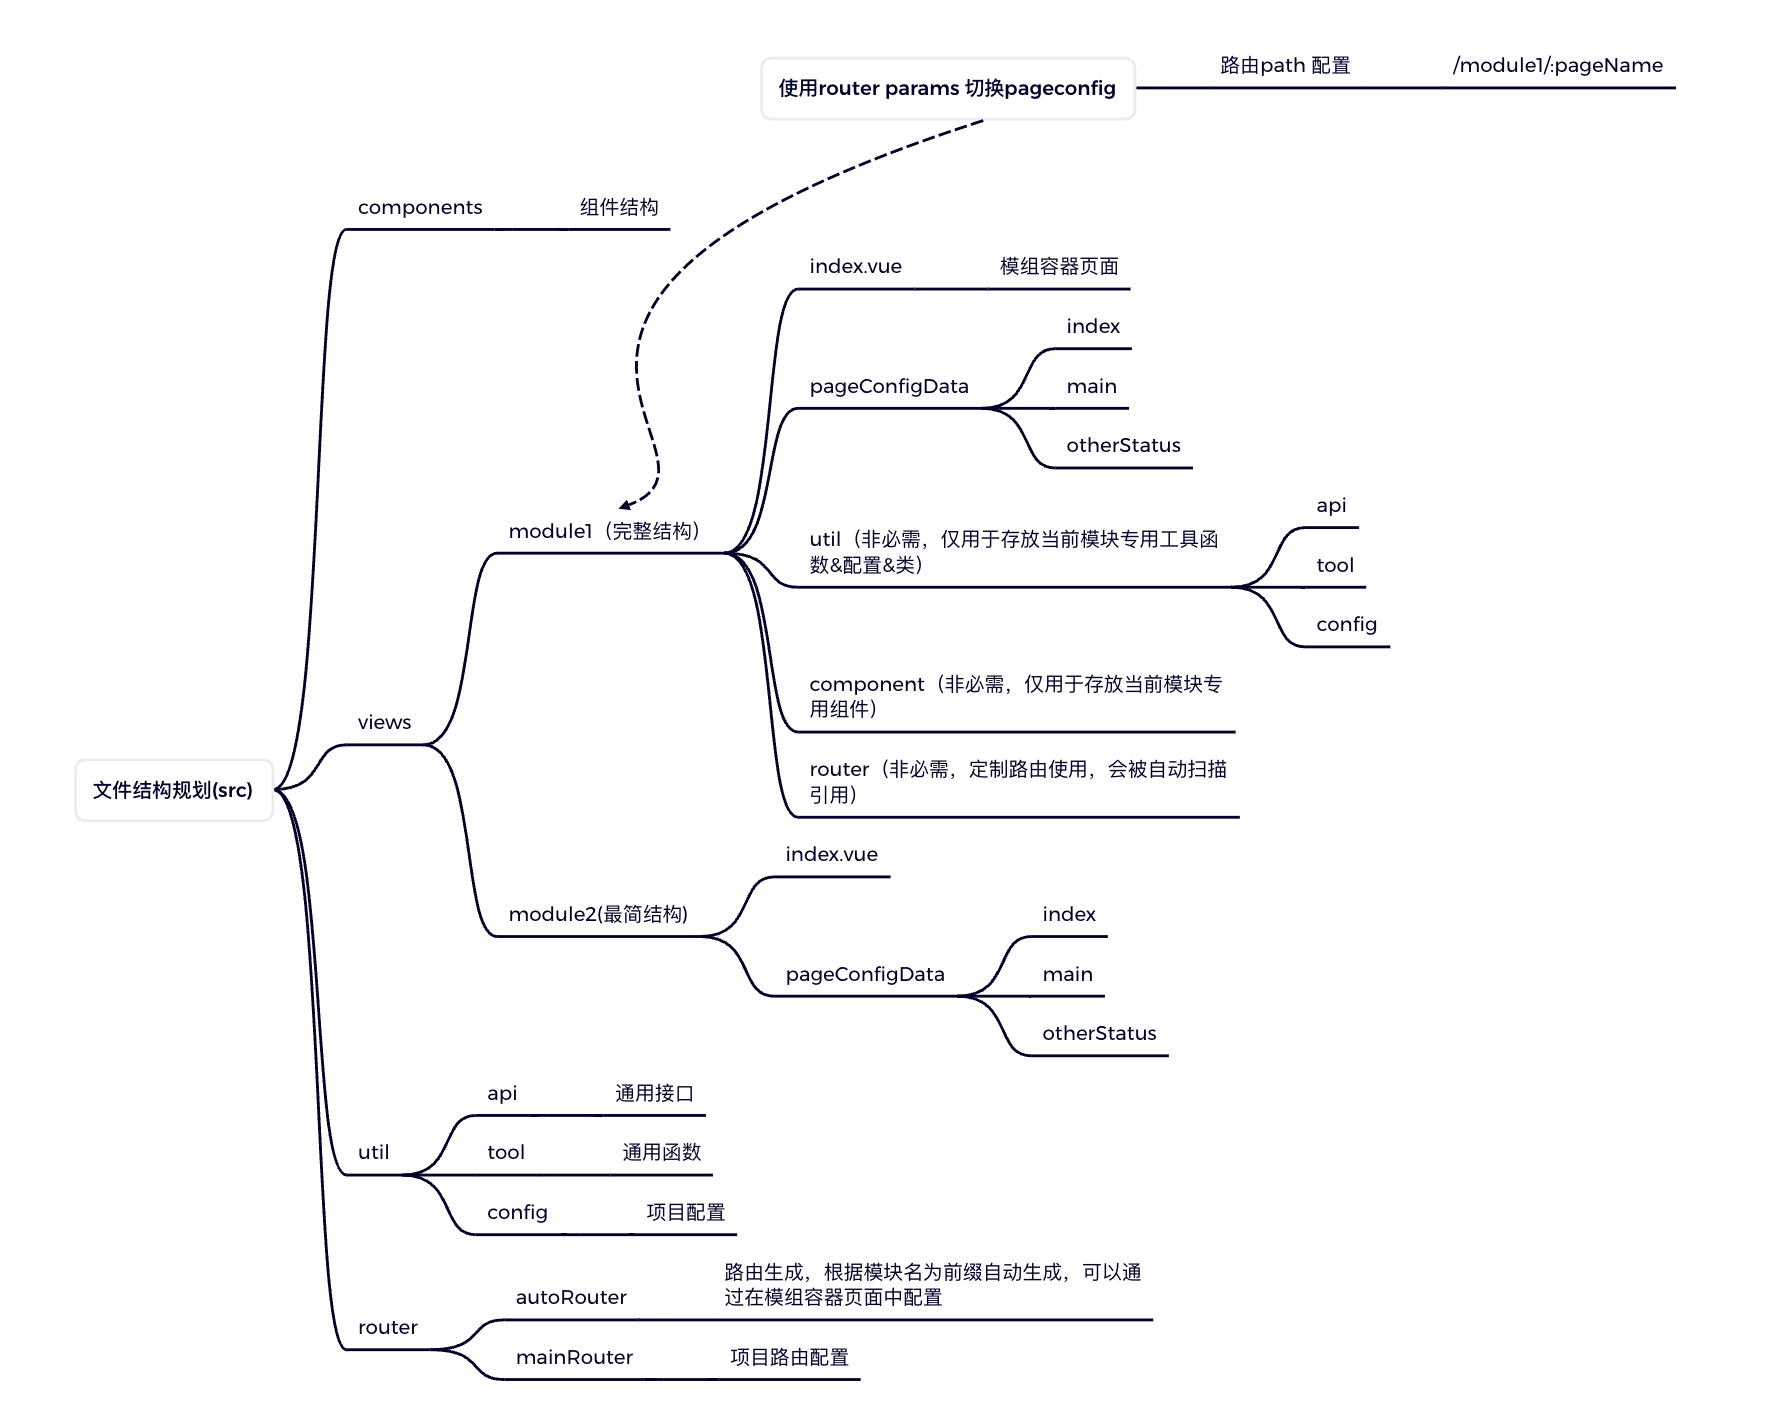
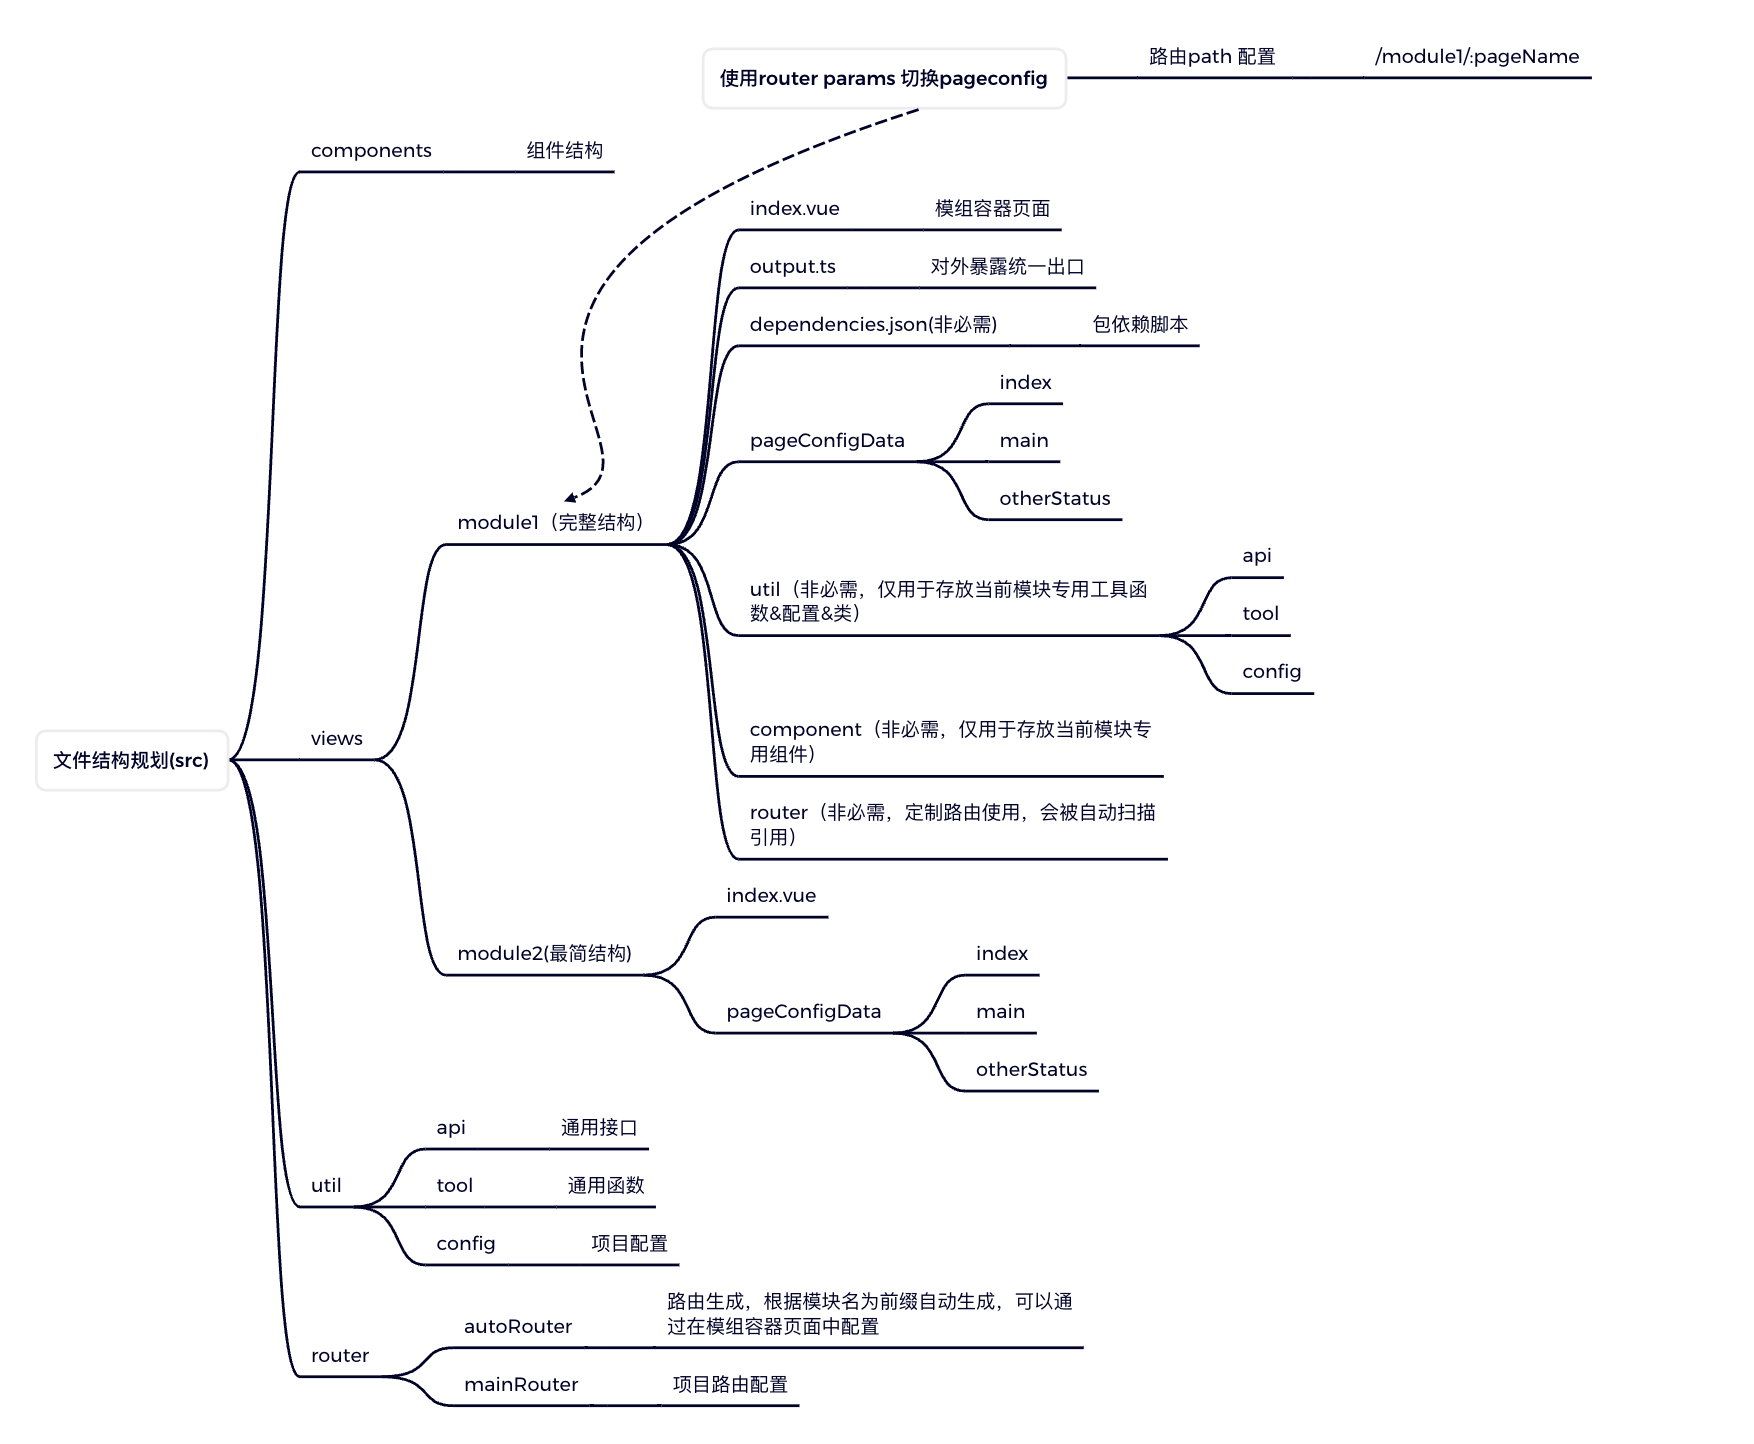
czh

diff --git a/README.md b/README.md
@@ -1,7 +1,7 @@
 <!--
  * @Date: 2021-12-30 11:00:24
  * @LastEditors: CZH
- * @LastEditTime: 2022-10-13 14:01:32
+ * @LastEditTime: 2022-10-13 15:37:46
  * @FilePath: /configforpagedemo/README.md
 -->
 
@@ -388,7 +388,7 @@ export interface cardComponent {
 
 ## 参考文件结构
 ```text
-文件结构规划(src内)
+lcdp-fe 文件结构规划(src内,src外为基础vue3项目)
 ├── components                                  // 全局通用组件
 │   └── components1                             // 组件1
 │   └── index.ts                                // 全量注册组件
@@ -404,6 +404,9 @@ export interface cardComponent {
 │           └── api                             // 模块接口
 │           └── tool                            // 模块工具函数
 │           └── config                          // 模块独有数据环境配置
+│       └── index.vue                           // 模块出口页面
+│       └── output.ts                           // 模块对外暴露工具类
+│       └── dependencies.json(非必需)            // 模块npm依赖
 │   └── index.ts                                // 模块注册
 ├── router                                      // 路由
 │   └── mainRouter.ts                           // 项目路由配置
